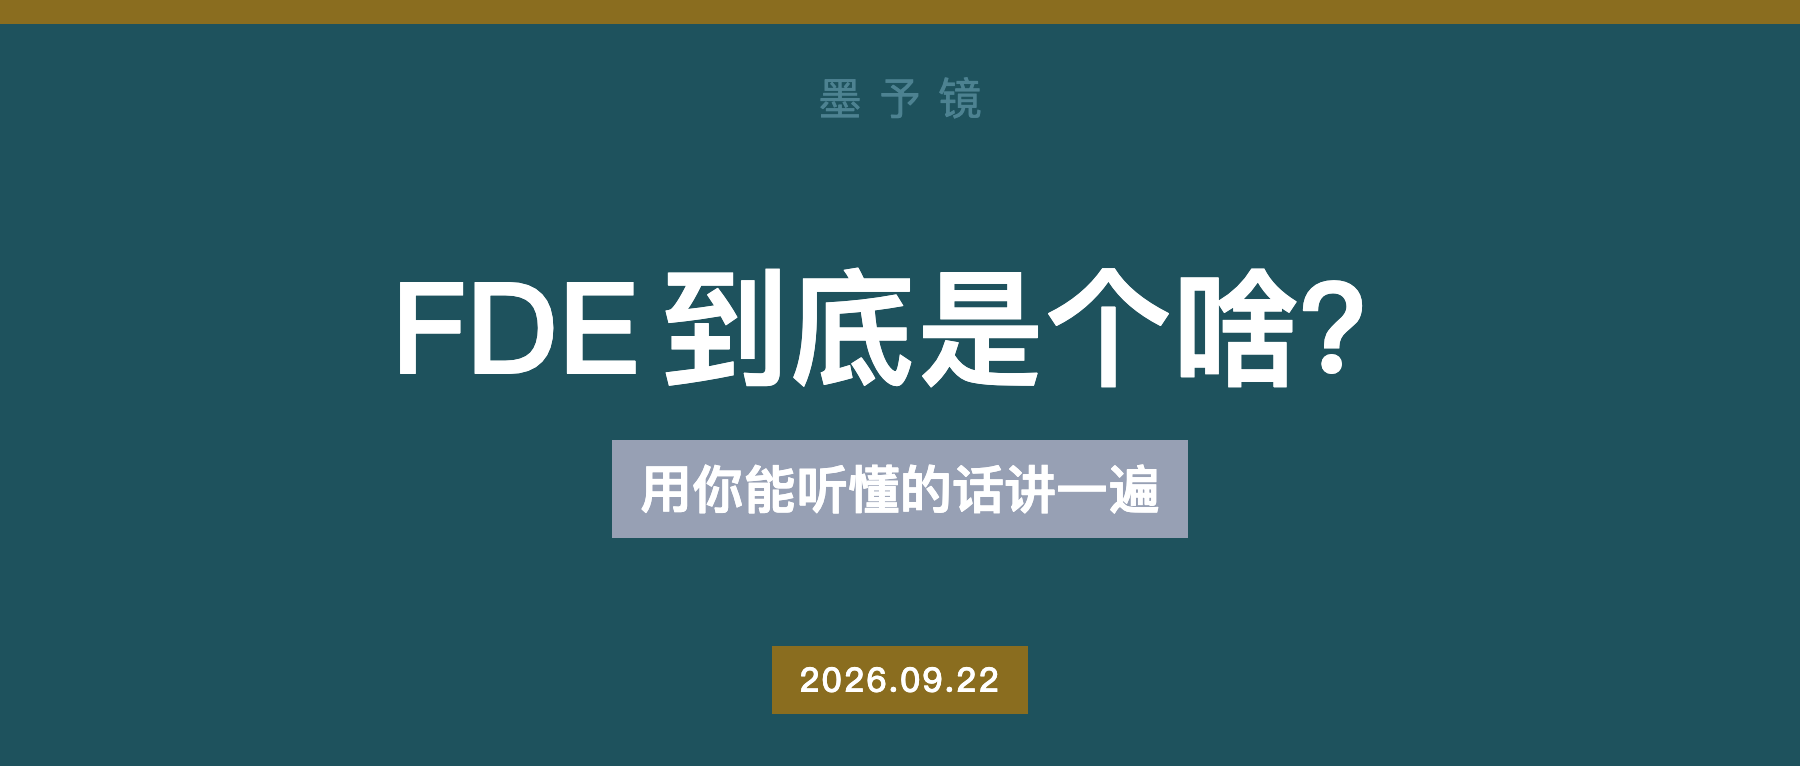
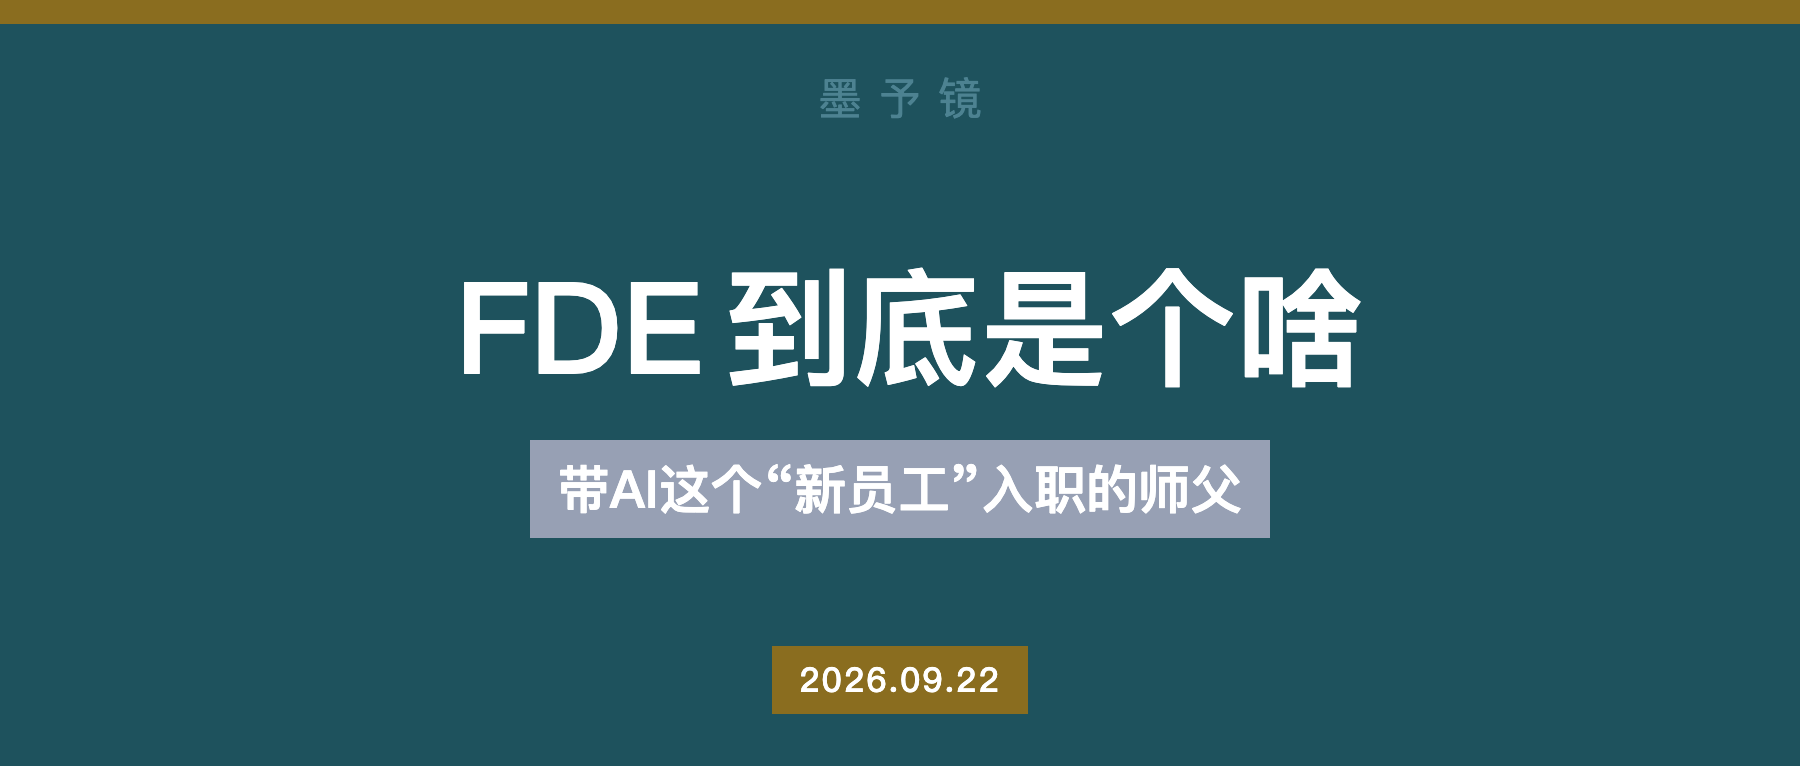
feat(墨予镜): FDE 系列 6 篇封面（默认配色）；标题加 balance 平衡换行；第1篇新副标题并同步草稿封面

Changed region(s): [[0.2178, 0.3303, 0.7778, 0.5104], [0.28, 0.5705, 0.7156, 0.7206]]

diff --git a/skills/moyujing-cover/templates/cover-v1.html b/skills/moyujing-cover/templates/cover-v1.html
@@ -57,6 +57,7 @@
     line-height: 1.2;
     text-align: center;
     padding: 0 40px;
+    text-wrap: balance;
   }
   /* 中西文混排整齐化：拉丁 run 两侧补 4px 对称间隙（叠加字母自身侧轴承，
      与相邻 CJK 的默认间隙视觉等宽）。任何 margin/letter-spacing 必须

diff --git a/projects/content-matrix/accounts/墨予镜/公众号封面/FDE是不是换了个名字-cover-assets/wechat-cover-manifest.md b/projects/content-matrix/accounts/墨予镜/公众号封面/FDE是不是换了个名字-cover-assets/wechat-cover-manifest.md
@@ -1,0 +1,17 @@
+> 状态：current
+> source_of_truth：/Users/xinran/Downloads/dev/mindsync/projects/content-matrix/accounts/墨予镜/公众号封面/FDE是不是换了个名字-cover-assets/wechat-cover-manifest.md
+
+# 封面清单：FDE是不是换了个名字
+
+- 主标题：FDE是不是换了个名字
+- 副标题：外包/咨询/驻场/售前，一次说清
+- 日期：2026.09.22（占位，发布前按实际日期重渲）
+- 渲染方式：cover-v1 模板（HTML）+ Playwright 截图 900×383（2x）
+- 字体：黑体系（PingFang SC / Hei SC），主标题 64px/800
+- 配色：深青 #1e525d + 金赭 #8a6d1f（账号兜底默认）
+
+| 候选 | 路径 | 配色 |
+| --- | --- | --- |
+| wx-cover-01 | /Users/xinran/Downloads/dev/mindsync/projects/content-matrix/accounts/墨予镜/公众号封面/FDE是不是换了个名字-cover-assets/wx-cover-01.png | 深青 + 金赭（默认） |
+
+选定：wx-cover-01

diff --git a/projects/content-matrix/accounts/墨予镜/公众号封面/FDE最难的从来不是写代码-cover-assets/wechat-cover-manifest.md b/projects/content-matrix/accounts/墨予镜/公众号封面/FDE最难的从来不是写代码-cover-assets/wechat-cover-manifest.md
@@ -1,0 +1,17 @@
+> 状态：current
+> source_of_truth：/Users/xinran/Downloads/dev/mindsync/projects/content-matrix/accounts/墨予镜/公众号封面/FDE最难的从来不是写代码-cover-assets/wechat-cover-manifest.md
+
+# 封面清单：FDE最难的从来不是写代码
+
+- 主标题：FDE最难的从来不是写代码
+- 副标题：是搞定人
+- 日期：2026.09.22（占位，发布前按实际日期重渲）
+- 渲染方式：cover-v1 模板（HTML）+ Playwright 截图 900×383（2x）
+- 字体：黑体系（PingFang SC / Hei SC），主标题 64px/800
+- 配色：深青 #1e525d + 金赭 #8a6d1f（账号兜底默认）
+
+| 候选 | 路径 | 配色 |
+| --- | --- | --- |
+| wx-cover-01 | /Users/xinran/Downloads/dev/mindsync/projects/content-matrix/accounts/墨予镜/公众号封面/FDE最难的从来不是写代码-cover-assets/wx-cover-01.png | 深青 + 金赭（默认） |
+
+选定：wx-cover-01

diff --git a/projects/content-matrix/accounts/墨予镜/公众号封面/需求不完整度段位表-cover-assets/wechat-cover-manifest.md b/projects/content-matrix/accounts/墨予镜/公众号封面/需求不完整度段位表-cover-assets/wechat-cover-manifest.md
@@ -1,0 +1,17 @@
+> 状态：current
+> source_of_truth：/Users/xinran/Downloads/dev/mindsync/projects/content-matrix/accounts/墨予镜/公众号封面/需求不完整度段位表-cover-assets/wechat-cover-manifest.md
+
+# 封面清单：需求不完整度段位表
+
+- 主标题：需求不完整度段位表
+- 副标题：信息不全的时候怎么做决定
+- 日期：2026.09.22（占位，发布前按实际日期重渲）
+- 渲染方式：cover-v1 模板（HTML）+ Playwright 截图 900×383（2x）
+- 字体：黑体系（PingFang SC / Hei SC），主标题 64px/800
+- 配色：深青 #1e525d + 金赭 #8a6d1f（账号兜底默认）
+
+| 候选 | 路径 | 配色 |
+| --- | --- | --- |
+| wx-cover-01 | /Users/xinran/Downloads/dev/mindsync/projects/content-matrix/accounts/墨予镜/公众号封面/需求不完整度段位表-cover-assets/wx-cover-01.png | 深青 + 金赭（默认） |
+
+选定：wx-cover-01

diff --git a/projects/content-matrix/accounts/墨予镜/公众号封面/FDE真的那么赚钱吗-cover-assets/wechat-cover-manifest.md b/projects/content-matrix/accounts/墨予镜/公众号封面/FDE真的那么赚钱吗-cover-assets/wechat-cover-manifest.md
@@ -1,0 +1,17 @@
+> 状态：current
+> source_of_truth：/Users/xinran/Downloads/dev/mindsync/projects/content-matrix/accounts/墨予镜/公众号封面/FDE真的那么赚钱吗-cover-assets/wechat-cover-manifest.md
+
+# 封面清单：FDE真的那么赚钱吗
+
+- 主标题：FDE真的那么赚钱吗
+- 副标题：钱从哪来，能赚多少，拆开给你看
+- 日期：2026.09.22（占位，发布前按实际日期重渲）
+- 渲染方式：cover-v1 模板（HTML）+ Playwright 截图 900×383（2x）
+- 字体：黑体系（PingFang SC / Hei SC），主标题 64px/800
+- 配色：深青 #1e525d + 金赭 #8a6d1f（账号兜底默认）
+
+| 候选 | 路径 | 配色 |
+| --- | --- | --- |
+| wx-cover-01 | /Users/xinran/Downloads/dev/mindsync/projects/content-matrix/accounts/墨予镜/公众号封面/FDE真的那么赚钱吗-cover-assets/wx-cover-01.png | 深青 + 金赭（默认） |
+
+选定：wx-cover-01

diff --git a/projects/content-matrix/accounts/墨予镜/公众号封面/五种FDE-cover-assets/wechat-cover-manifest.md b/projects/content-matrix/accounts/墨予镜/公众号封面/五种FDE-cover-assets/wechat-cover-manifest.md
@@ -1,0 +1,17 @@
+> 状态：current
+> source_of_truth：/Users/xinran/Downloads/dev/mindsync/projects/content-matrix/accounts/墨予镜/公众号封面/五种FDE-cover-assets/wechat-cover-manifest.md
+
+# 封面清单：别被名字骗了——五种FDE，干的完全不是一回事
+
+- 主标题：五种FDE，干的完全不是一回事
+- 副标题：别被名字骗了
+- 日期：2026.09.22（占位，发布前按实际日期重渲）
+- 渲染方式：cover-v1 模板（HTML）+ Playwright 截图 900×383（2x）
+- 字体：黑体系（PingFang SC / Hei SC），主标题 64px/800
+- 配色：深青 #1e525d + 金赭 #8a6d1f（账号兜底默认）
+
+| 候选 | 路径 | 配色 |
+| --- | --- | --- |
+| wx-cover-01 | /Users/xinran/Downloads/dev/mindsync/projects/content-matrix/accounts/墨予镜/公众号封面/五种FDE-cover-assets/wx-cover-01.png | 深青 + 金赭（默认） |
+
+选定：wx-cover-01

diff --git a/projects/content-matrix/accounts/墨予镜/公众号封面/FDE-到底是个啥-cover-assets/wechat-cover-manifest.md b/projects/content-matrix/accounts/墨予镜/公众号封面/FDE-到底是个啥-cover-assets/wechat-cover-manifest.md
@@ -6,7 +6,7 @@
 
 - 文章标题：FDE 到底是个啥？——用你能听懂的话讲一遍
 - 主标题：FDE 到底是个啥？
-- 副标题：用你能听懂的话讲一遍
+- 副标题：带AI这个“新员工”入职的师父
 - 日期：2026.09.22
 - 渲染方式：cover-v1 模板（HTML）+ Playwright 截图 900×383（2x）
 - 字体：黑体系（PingFang SC / Hei SC，字重 800）/ 苹方（副标题、日期）
